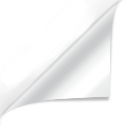
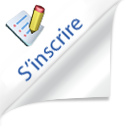
op

Changed region(s): [[0.0238, 0.0312, 0.3571, 0.375], [0.1429, 0.125, 0.6667, 0.6562]]

diff --git a/Css/Session.css b/Css/Session.css
@@ -26,6 +26,7 @@ left:0;
 	-o-transition: all 0.5s ease-in-out;
 	-ms-transition: all 0.5s ease-in-out;
 	transition: all 0.5s ease-in-out;
+				text-indent:-50em;
 }
 
 #lien_inscription:hover {

diff --git a/View/DisplayView.php b/View/DisplayView.php
@@ -1,21 +1,25 @@
 <?php
 class DisplayView{
-	public static function showGraphChoiceMenu(){
+	public static function showGraphChoiceMenu($data){
+		CHead::addCSS('Display');
 		echo <<<END
-		<div class="content">
-			<div class="hero-unit">
-				<div id=selection_graph>
-					<ul class="media-grid">	
-						<li>
-							<a href="#" class="liengraph">
-								<img alt="" src="/InspecteurDeryque/Data/Calories/thumbnail.png" class="thumbnail"/>
-							</a>
-						</li>
-					</ul>
-				</div>
-			<h1>Page Principale</h1>
-			<p>Texte</p>
-			</div>
+		<div id="selection_graph">
+			<ul class="media-grid">	
+END;
+		
+		foreach ($data as $display)
+		{
+			echo <<<END
+				<li>
+					<a href="#" class="liengraph">
+						<img alt="" src="/InspecteurDeryque/Data/Calories/thumbnail.png" class="thumbnail"/>
+					</a>
+				</li>
+END;
+		}
+
+		echo <<<END
+			</ul>
 		</div>
 END;
 	}

diff --git a/Mod/DisplayMod.php b/Mod/DisplayMod.php
@@ -1,0 +1,22 @@
+<?php
+
+class DisplayMod extends AbstractMod
+{
+	public static function getDisplayTypes() {
+		$data = array();
+
+		foreach (scandir('Display') as $dossier) {
+			$dossier = self::secureDossier($dossier);
+			if (strlen($dossier) && $dossier[0] !== '.' && is_dir('Display/'.$dossier) && file_exists("Display/$dossier/D$dossier.php")) {
+				require_once("Display/$dossier/D$dossier.php");
+				$classe = "D$dossier";
+				$nom = $classe::nom;
+				$data[] = new DisplayMod($nom, $dossier);
+			}
+		}
+
+		return $data;
+	}
+}
+
+?>

diff --git a/Ctrl/Data.php b/Ctrl/Data.php
@@ -98,7 +98,10 @@ END;*/
 		CNavigation::setTitle('Relevé «'.$releve['name'].'»');
 		CNavigation::setDescription($releve['description']);
 		groaw($releve);
-		
+	
+		$data = DisplayMod::getDisplayTypes();
+		DisplayView::showGraphChoiceMenu($data);
+
 		DataView::showViewButtons(
 				CNavigation::generateMergedUrl('Data', 'remove'),
 				CNavigation::generateUrlToApp('Data'));

diff --git a/Mod/DataMod.php b/Mod/DataMod.php
@@ -1,19 +1,7 @@
 <?php
 
-class DataMod
+class DataMod extends AbstractMod
 {
-	public $nom;
-	public $dossier;
-
-	public function DataMod($nom, $dossier) {
-		$this->nom = $nom;
-		$this->dossier = $dossier;
-	}
-
-	public static function secureDossier($dossier) {
-		return str_replace('..', '', $dossier);
-	}
-
 	public static function getDataTypes() {
 		$data = array();
 

diff --git a/View/SessionView.php b/View/SessionView.php
@@ -21,9 +21,9 @@ class SessionView {
 		echo <<<END
 <h1 id="titre_deryque">Inspecteur Deryque</h1>
 
-<div id="lien_inscription">
-<a href="$url_registration">$text_registration</a>
-</div>
+<a href="$url_registration"><div id="lien_inscription">
+$text_registration
+</div></a>
 		
 <form action="$url_submit" name="login" method="post" $class>
 	<p>

diff --git a/Tools/CHead.php b/Tools/CHead.php
@@ -7,12 +7,14 @@ class CHead
 
 	public static function addCSS($n_css)
 	{
-		self::$css[] = $n_css;
+		if (!in_array($n_css, self::$css))
+			self::$css[] = $n_css;
 	}
 	
 	public static function addJS($n_js)
 	{
-		self::$js[] = $n_js;
+		if (!in_array($n_js, self::$js))
+			self::$js[] = $n_js;
 	}
 
 	public static function delCSS($n_css)

diff --git a/Mod/AbstractMod.php b/Mod/AbstractMod.php
@@ -1,0 +1,18 @@
+<?php
+
+abstract class AbstractMod
+{
+	public $nom;
+	public $dossier;
+
+	public function AbstractMod($nom, $dossier) {
+		$this->nom = $nom;
+		$this->dossier = $dossier;
+	}
+
+	public static function secureDossier($dossier) {
+		return str_replace('..', '', $dossier);
+	}
+
+}
+?>

diff --git a/Display/Diagramme/DDiagramme.php b/Display/Diagramme/DDiagramme.php
@@ -1,0 +1,6 @@
+<?php
+class DDiagramme
+{
+	const nom = 'Diagramme';
+}
+?>

diff --git a/Display/Tableau/DTableau.php b/Display/Tableau/DTableau.php
@@ -1,0 +1,6 @@
+<?php
+class DTableau
+{
+	const nom = 'Tableau';
+}
+?>
